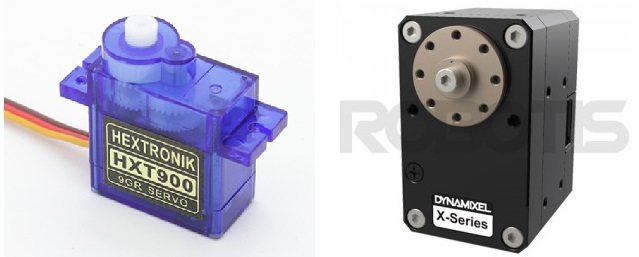
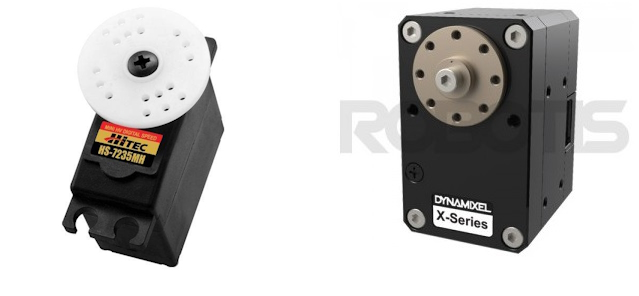
add Hitec links on PWM servo page

diff --git a/common/source/docs/common-servo.rst b/common/source/docs/common-servo.rst
@@ -10,10 +10,7 @@ ball.  These servo(s) can be controlled either directly by the pilot via
 a switch on the transmitter, through commands sent from the ground
 station or as part of a mission.
 
-Either
-`analog <https://www.amazon.com/Hitec-31055S-HS-55-Economy-Universal/dp/B0006O3WNW>`__
-or `digital servos <https://www.amazon.com/Hitec-RCD-35076S-HS-A5076HB-Digital/dp/B003RXHMNK>`__
-may be used.
+Either analog or digital servos may be used such as provided by ArduPilot partner `Hitec <https://hitecrcd.com/products/servos>`__ or other vendors.
 
 Connecting the servo to an AutoPilot
 ====================================
